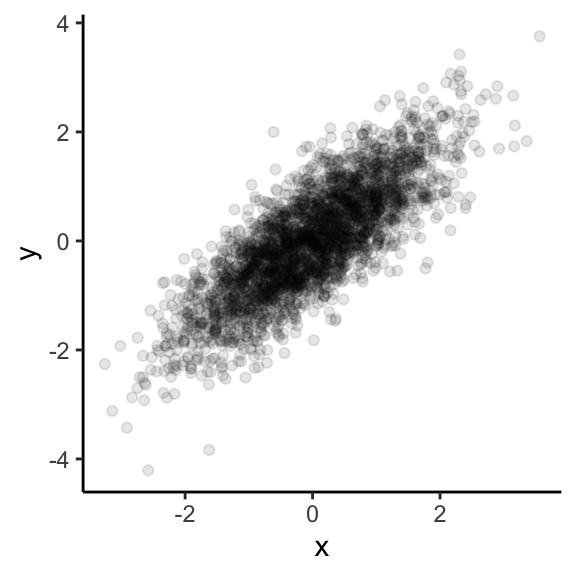
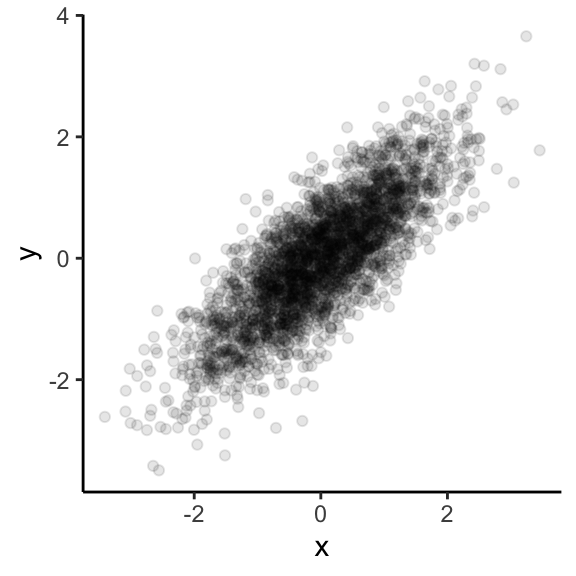
update slides

diff --git a/slides_1day/session1_slides.html b/slides_1day/session1_slides.html
@@ -10,7 +10,8 @@
   <meta name="generator" content="quarto-1.8.25">
 
   <meta name="author" content="Casey Breen">
-  <title>quarto-input9f82b19e5673c588</title>
+  <meta name="dcterms.date" content="2026-01-22">
+  <title>quarto-input973d5937c683e516</title>
   <meta name="apple-mobile-web-app-capable" content="yes">
   <meta name="apple-mobile-web-app-status-bar-style" content="black-translucent">
   <meta name="viewport" content="width=device-width, initial-scale=1.0, maximum-scale=1.0, user-scalable=no, minimal-ui">
@@ -204,7 +205,7 @@ Casey Breen
 </div>
 </div>
 
-  <p class="date">Invalid Date</p>
+  <p class="date">2026-01-22</p>
 </section>
 <section id="welcome-to-intro-to-r" class="slide level2">
 <h2>Welcome to “Intro to <code>R</code>”</h2>
@@ -824,17 +825,17 @@ Casey Breen
 <span id="cb55-6"><a href=""></a><span class="do">## find the mean </span></span>
 <span id="cb55-7"><a href=""></a><span class="fu">mean</span>(random_draws)</span></code></pre></div><button title="Copy to Clipboard" class="code-copy-button"><i class="bi"></i></button></div>
 <div class="cell-output cell-output-stdout">
-<pre><code>[1] 0.1131806</code></pre>
+<pre><code>[1] 0.03602792</code></pre>
 </div>
 <div class="code-copy-outer-scaffold"><div class="sourceCode cell-code" id="cb57"><pre class="sourceCode numberSource r number-lines code-with-copy"><code class="sourceCode r"><span id="cb57-1"><a href=""></a><span class="do">## find the median</span></span>
 <span id="cb57-2"><a href=""></a><span class="fu">median</span>(random_draws)</span></code></pre></div><button title="Copy to Clipboard" class="code-copy-button"><i class="bi"></i></button></div>
 <div class="cell-output cell-output-stdout">
-<pre><code>[1] -0.3859664</code></pre>
+<pre><code>[1] -0.1229579</code></pre>
 </div>
 <div class="code-copy-outer-scaffold"><div class="sourceCode cell-code" id="cb59"><pre class="sourceCode numberSource r number-lines code-with-copy"><code class="sourceCode r"><span id="cb59-1"><a href=""></a><span class="do">## find the standard deviation </span></span>
 <span id="cb59-2"><a href=""></a><span class="fu">sd</span>(random_draws)</span></code></pre></div><button title="Copy to Clipboard" class="code-copy-button"><i class="bi"></i></button></div>
 <div class="cell-output cell-output-stdout">
-<pre><code>[1] 1.196568</code></pre>
+<pre><code>[1] 0.4797366</code></pre>
 </div>
 </div>
 </section>
